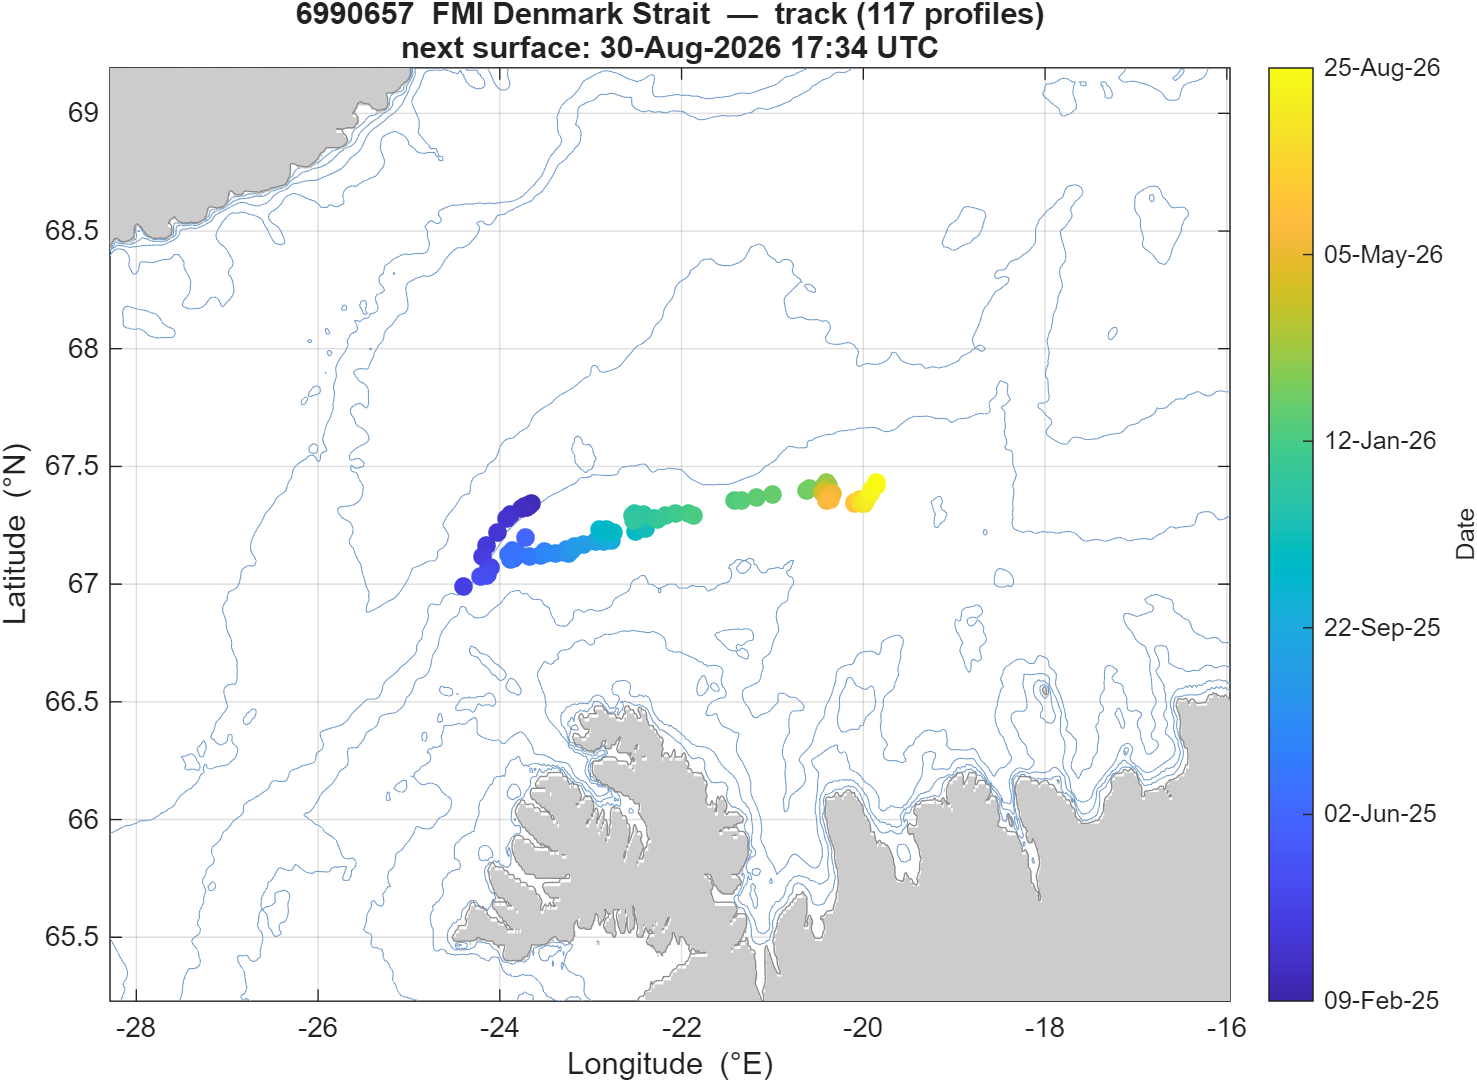
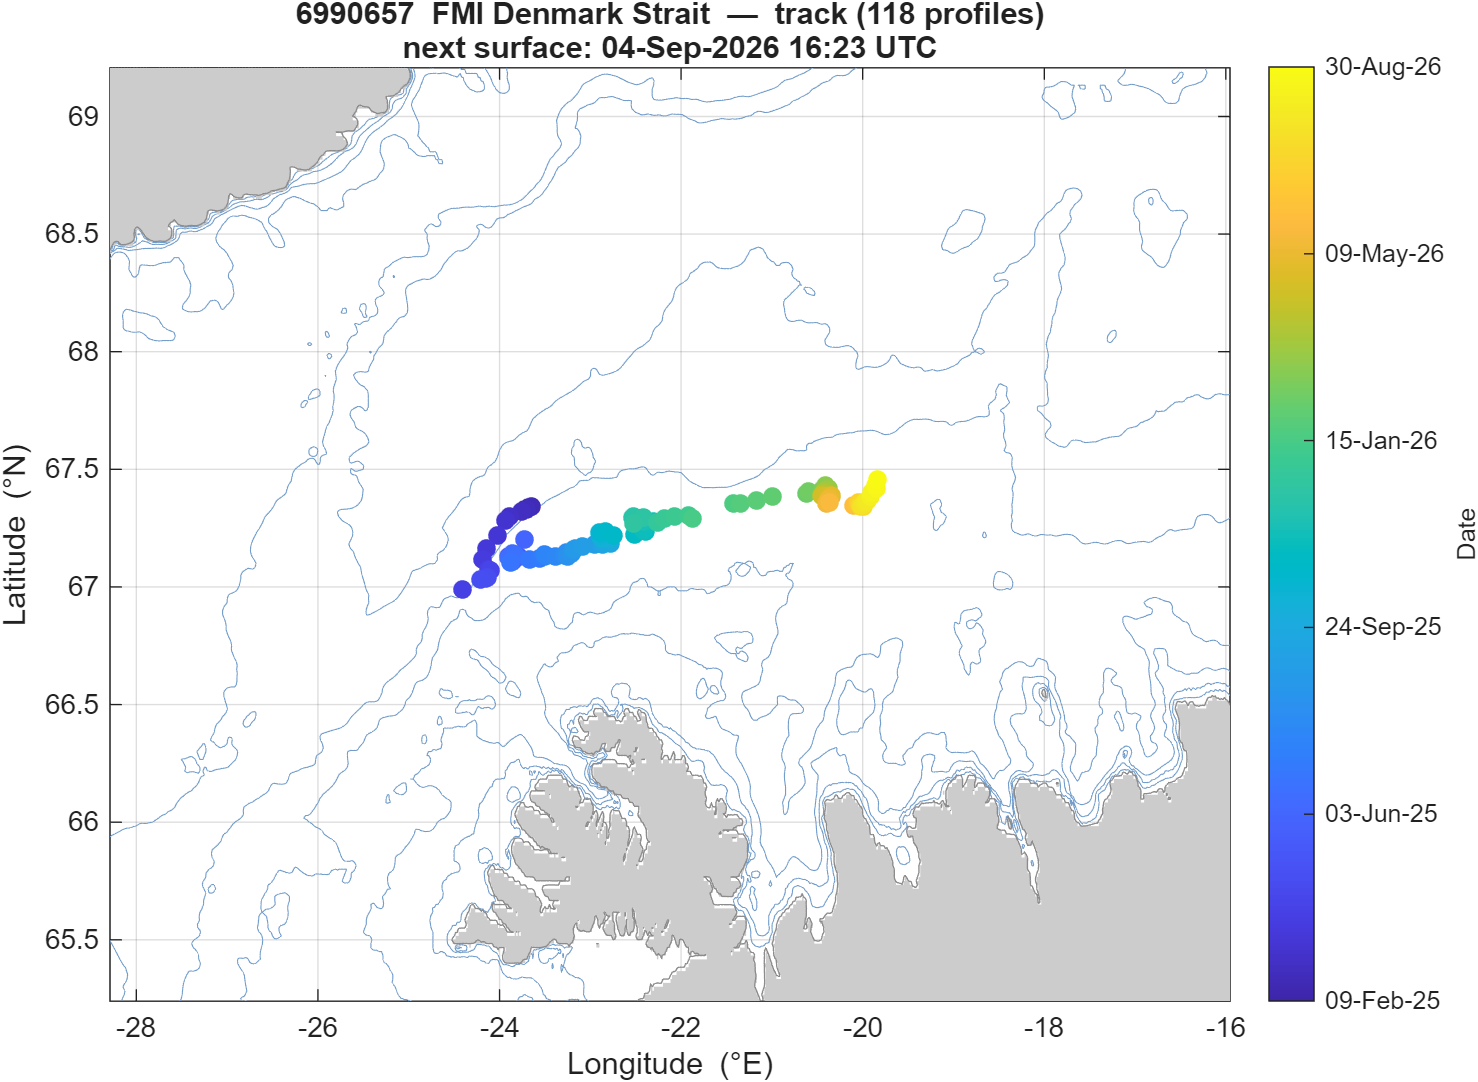
data update

diff --git a/data.js b/data.js
@@ -15,7 +15,7 @@
 //   graphs        [{label, src}, ...] figures for the fold-out
 //   notes         free text from floats_config.csv
 
-const floatUpdated = "2026-08-30 12:26";
+const floatUpdated = "2026-09-01 18:22";
 
 const floatData = [
   {
@@ -32,7 +32,7 @@ const floatData = [
     "location": "70.501° N, 18.550° W",
     "deployment_date": "2025-05-27",
     "last_surface": "2026-08-28 20:01",
-    "days_since": 1.7,
+    "days_since": 3.9,
     "next_surface": "2026-09-02 19:01",
     "next_surface_source": "nke cycle period",
     "n_profiles": 95,
@@ -332,15 +332,15 @@ const floatData = [
     "region": "greenland",
     "status": "active",
     "status_note": "",
-    "latitude": 67.4302,
-    "longitude": -19.8566,
-    "location": "67.430° N, 19.857° W",
+    "latitude": 67.4561,
+    "longitude": -19.8405,
+    "location": "67.456° N, 19.840° W",
     "deployment_date": "2025-02-10",
-    "last_surface": "2026-08-25 18:34",
-    "days_since": 4.7,
-    "next_surface": "2026-08-30 17:34",
+    "last_surface": "2026-08-30 17:23",
+    "days_since": 2,
+    "next_surface": "2026-09-04 16:23",
     "next_surface_source": "nke cycle period",
-    "n_profiles": 115,
+    "n_profiles": 116,
     "track": [
       [
         67.3361,
@@ -809,6 +809,10 @@ const floatData = [
       [
         67.4302,
         -19.8566
+      ],
+      [
+        67.4561,
+        -19.8405
       ]
     ],
     "trajectory": "assets/plots/6990657/6990657_map.png",
@@ -818,8 +822,8 @@ const floatData = [
         "src": "assets/plots/6990657/6990657_sections.png"
       },
       {
-        "label": "Profile 115  (2026-08-25)",
-        "src": "assets/plots/6990657/6990657_profile_115_2026-08-25.png"
+        "label": "Profile 116  (2026-08-30)",
+        "src": "assets/plots/6990657/6990657_profile_116_2026-08-30.png"
       }
     ],
     "notes": "RBR CTD"
@@ -838,7 +842,7 @@ const floatData = [
     "location": "78.697° N, 11.225° W",
     "deployment_date": "2025-08-04",
     "last_surface": "2026-08-27 05:36",
-    "days_since": 3.3,
+    "days_since": 5.5,
     "next_surface": "2026-09-01 04:36",
     "next_surface_source": "nke cycle period",
     "n_profiles": 80,
@@ -1203,7 +1207,7 @@ const floatData = [
     "location": "75.393° N, 10.604° W",
     "deployment_date": "2025-10-30",
     "last_surface": "2026-08-29 14:05",
-    "days_since": 0.9,
+    "days_since": 3.2,
     "next_surface": "2026-09-03 13:05",
     "next_surface_source": "nke cycle period",
     "n_profiles": 61,
@@ -1492,7 +1496,7 @@ const floatData = [
     "location": "77.352° N, 70.470° W",
     "deployment_date": "2025-08-13",
     "last_surface": "2026-08-30 07:24",
-    "days_since": 0.2,
+    "days_since": 2.5,
     "next_surface": "2026-09-04 06:24",
     "next_surface_source": "nke cycle period",
     "n_profiles": 57,
@@ -1765,7 +1769,7 @@ const floatData = [
     "location": "74.373° N, 20.359° W",
     "deployment_date": "2025-08-17",
     "last_surface": "2026-08-24 08:23",
-    "days_since": 6.2,
+    "days_since": 8.4,
     "next_surface": "2026-09-03 03:23",
     "next_surface_source": "nke cycle period",
     "n_profiles": 38,
@@ -1962,7 +1966,7 @@ const floatData = [
     "location": "56.325° N, 19.320° E",
     "deployment_date": "2024-11-25",
     "last_surface": "2026-08-27 18:38",
-    "days_since": 2.7,
+    "days_since": 5,
     "next_surface": "2026-09-01 13:38",
     "next_surface_source": "nke cycle period",
     "n_profiles": 138,
@@ -2546,15 +2550,15 @@ const floatData = [
     "region": "denmark",
     "status": "active",
     "status_note": "",
-    "latitude": 55.2008,
-    "longitude": 9.7524,
-    "location": "55.201° N, 9.752° E",
+    "latitude": 55.2005,
+    "longitude": 9.7527,
+    "location": "55.201° N, 9.753° E",
     "deployment_date": "2026-06-23",
-    "last_surface": "2026-08-22 00:43",
-    "days_since": 8.5,
-    "next_surface": "2026-08-26 23:53",
+    "last_surface": "2026-08-31 23:11",
+    "days_since": 0.8,
+    "next_surface": "2026-09-05 22:21",
     "next_surface_source": "median cycle interval",
-    "n_profiles": 13,
+    "n_profiles": 15,
     "track": [
       [
         55.2012,
@@ -2607,6 +2611,14 @@ const floatData = [
       [
         55.2008,
         9.7524
+      ],
+      [
+        55.2005,
+        9.7527
+      ],
+      [
+        55.2005,
+        9.7527
       ]
     ],
     "trajectory": "assets/plots/Sgav_arvor2/Sgav_arvor2_map.png",
@@ -2616,8 +2628,8 @@ const floatData = [
         "src": "assets/plots/Sgav_arvor2/Sgav_arvor2_sections.png"
       },
       {
-        "label": "Profile 013  (2026-08-22)",
-        "src": "assets/plots/Sgav_arvor2/Sgav_arvor2_profile_013_2026-08-22.png"
+        "label": "Profile 015  (2026-08-31)",
+        "src": "assets/plots/Sgav_arvor2/Sgav_arvor2_profile_015_2026-08-31.png"
       }
     ],
     "notes": "PFV2 python parser"
@@ -2636,7 +2648,7 @@ const floatData = [
     "location": "54.986° N, 10.229° E",
     "deployment_date": "2026-06-24",
     "last_surface": "2026-08-29 01:59",
-    "days_since": 1.4,
+    "days_since": 3.7,
     "next_surface": "2026-09-03 01:54",
     "next_surface_source": "median cycle interval",
     "n_profiles": 14,
@@ -2719,13 +2731,13 @@ const floatData = [
     "sensors": "bgc",
     "region": "denmark",
     "status": "inactive",
-    "status_note": "no transmission for 420 days — no next surfacing predicted",
+    "status_note": "no transmission for 422 days — no next surfacing predicted",
     "latitude": 55.1358,
     "longitude": 14.5121,
     "location": "55.136° N, 14.512° E",
     "deployment_date": "2023-11-07",
     "last_surface": "2025-07-06 10:58",
-    "days_since": 420.1,
+    "days_since": 422.3,
     "next_surface": "",
     "next_surface_source": "",
     "n_profiles": 190,
